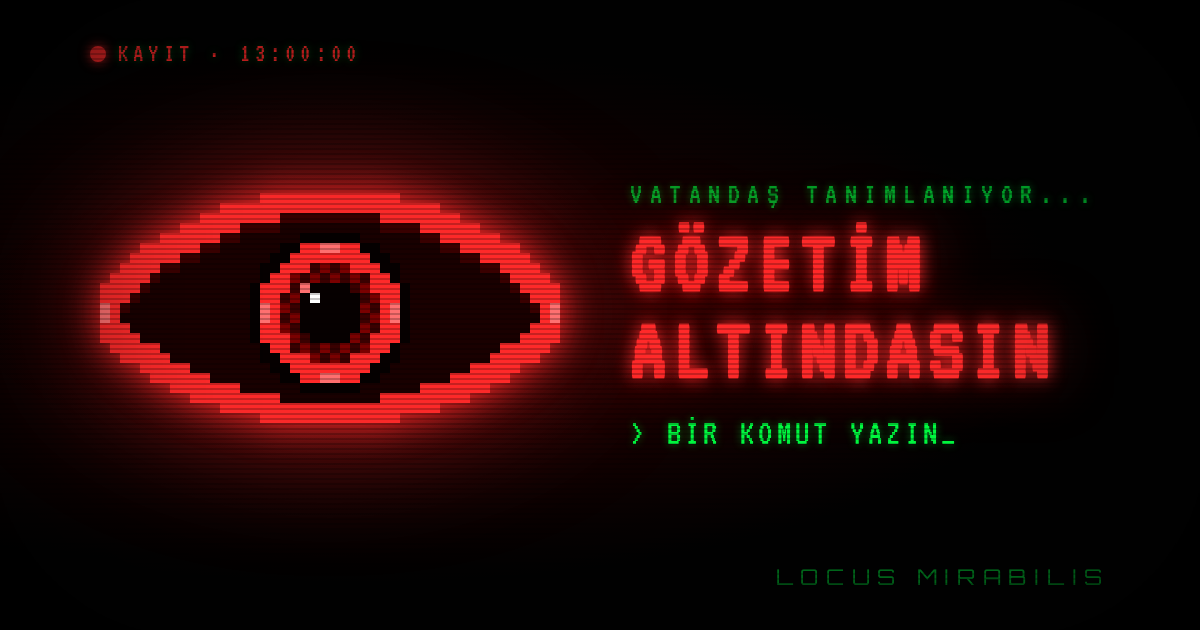
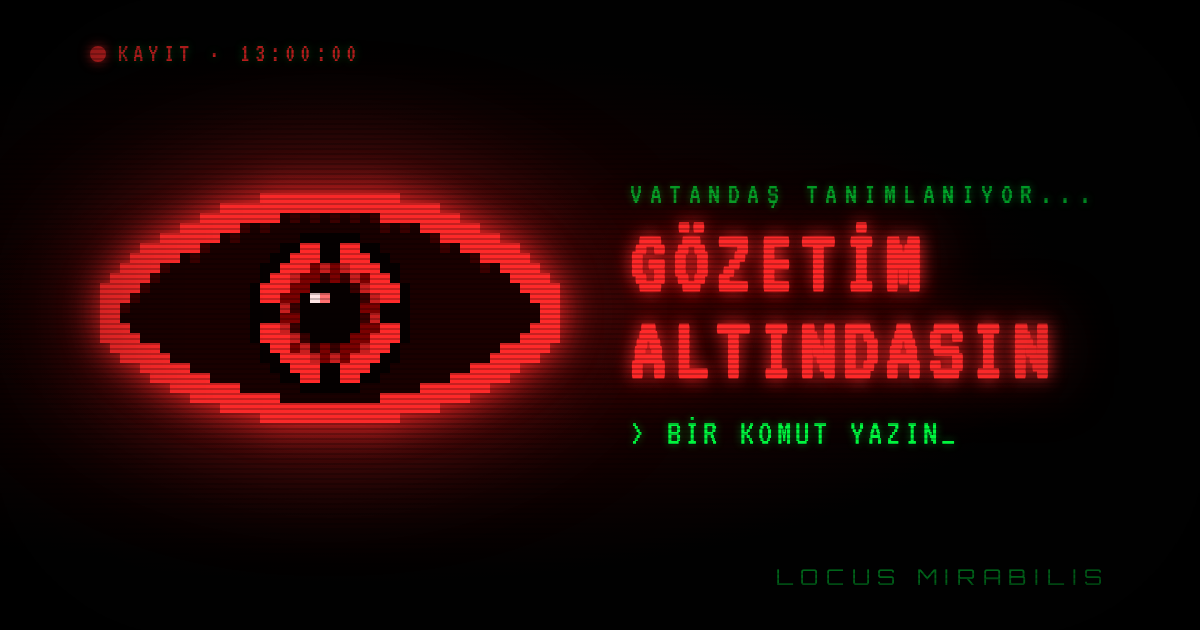
Refine the pixel eye after adversarial review
Three reviewers compared the synthesised eye with the top candidates; it
won narrowly and every concrete fix is applied:
- the suspect-mood dilation is now a second, whole-cell stepped pupil that
  fades in with steps() instead of a smoothly scaled polygon (the last
  vector tween inside the sprite); the blink drops in raster rows too
- the collar is a two-step ordered-dither ramp (mid chequer, dark chequer)
  instead of a single dark speckled band
- the pale cardinal ticks became dark notches that cut the ring into four
  arcs: mechanism, not shine; tip hot-spots removed for a clean taper
- the brow shadow is a 50% chequer instead of a flat band
- the glint is a two-cell phosphor-white → soft-red bar inside the pupil
Favicon, icons and OG image regenerated from the same sprite.

Claude-Session: https://claude.ai/code/session_01N9ZUnRadKbmvCrqos9aZ95

diff --git a/scripts/make-eye.js b/scripts/make-eye.js
@@ -10,10 +10,12 @@
  *   - assets/img/eye.svg    standalone copy for the icon / OG generator
  *   - assets/img/favicon.svg ring + pupil only, 16x16 cells
  *
- * Design (synthesised from the ten-candidate panel): asymmetric almond with a
- * two-cell outline and phosphor hot-spots at the tips, dark limbal ring, bold
- * two-cell iris ring with cardinal ticks, ordered-dither collar, stepped pupil
- * with a two-tone glint. No curves, no gradients, nothing off the grid.
+ * Design (synthesised from a ten-candidate panel and an adversarial review):
+ * asymmetric almond with a two-cell outline, a chequered brow shadow, dark
+ * limbal ring, bold two-cell iris ring cut into four arcs by dark cardinal
+ * notches, a two-step ordered-dither collar, a stepped pupil with a two-tone
+ * phosphor glint, and a whole-cell dilated pupil for suspect mood. No curves,
+ * no gradients, nothing off the grid, no smooth tweens.
  */
 'use strict';
 
@@ -33,11 +35,13 @@ const PAL = {
   shadow: '#3a0000',
   limbal: '#060000',
   ring: 'currentColor',
-  tick: '#ff7070',
-  ditherA: '#7a0000',
-  ditherB: '#3a0000',
+  notch: '#060000',
+  collarOuterA: '#c81e1e', // mid red: the collar ramps bright ring → mid chequer → dark chequer → void
+  collarOuterB: '#7a0000',
+  collarInnerA: '#7a0000',
+  collarInnerB: '#3a0000',
   pupil: '#060000',
-  glint: '#ffffff',
+  glint: '#ffe4e4',       // over-driven phosphor white, not paper white
   glintSoft: '#ff7070'
 };
 
@@ -84,42 +88,33 @@ function paint() {
   const open = almondOpening();
   const outline = new Set([...dilate(open, 2)].filter((k) => !open.has(k)));
 
-  const layers = { sclera: [], shadow: [], outline: [], tips: [], limbal: [], ring: [], tick: [], ditherA: [], ditherB: [], pupil: [], glint: [], glintSoft: [] };
+  const layers = { sclera: [], shadow: [], outline: [], limbal: [], ring: [], notch: [], collarOuterA: [], collarOuterB: [], collarInnerA: [], collarInnerB: [], pupil: [], glint: [], glintSoft: [] };
 
   for (const k of open) {
     const [c, r] = k.split(',').map(Number);
-    // one cell of shadow directly under the upper lid gives the brow weight
-    if (outline.has(key(c, r - 1))) layers.shadow.push([c, r]);
+    // a 50% chequer of shadow directly under the upper lid gives the brow weight without a flat band
+    if (outline.has(key(c, r - 1)) && (c + r) % 2 === 0) layers.shadow.push([c, r]);
     else layers.sclera.push([c, r]);
   }
   for (const k of outline) layers.outline.push(k.split(',').map(Number));
 
-  // phosphor hot-spots where the beam dwells at the almond tips
-  const outlineCols = layers.outline.map(([c]) => c);
-  const minC = Math.min(...outlineCols);
-  const maxC = Math.max(...outlineCols);
-  for (const r of [13, 14]) {
-    layers.tips.push([minC, r]);
-    layers.tips.push([maxC, r]);
-  }
-
   // iris rings by cell-centre distance from (CX, CY)
+  const chequer = (c, r) => (c + r) % 2 === 0;
   for (let c = 0; c < COLS; c++) {
     for (let r = 0; r < ROWS; r++) {
       const d = dist(c, r);
       if (d >= 40) continue;
+      const cardinal = (c === 23 || c === 24) || (r === 13 || r === 14); // the two cells straddling each axis
       if (d >= 35) layers.limbal.push([c, r]);
-      else if (d >= 25) layers.ring.push([c, r]);
-      else if (d >= 15) ((c + r) % 2 === 0 ? layers.ditherA : layers.ditherB).push([c, r]);
+      else if (d >= 25) (cardinal ? layers.notch : layers.ring).push([c, r]);        // dark notches cut the ring into four arcs
+      else if (d >= 20) (chequer(c, r) ? layers.collarOuterA : layers.collarOuterB).push([c, r]);
+      else if (d >= 15) (chequer(c, r) ? layers.collarInnerA : layers.collarInnerB).push([c, r]);
       else layers.pupil.push([c, r]);
     }
   }
-  // cardinal ticks on the bright ring (two cells each, since the centre is on a corner)
-  for (const c of [23, 24]) { layers.tick.push([c, 7]); layers.tick.push([c, 20]); }
-  for (const r of [13, 14]) { layers.tick.push([17, r]); layers.tick.push([30, r]); }
-  // two-tone glint: a white cell inside the pupil's upper-left edge, a soft cell beyond it
+  // two-tone glint bar inside the pupil's upper-left: phosphor white decaying to soft red
   layers.glint.push([22, 12]);
-  layers.glintSoft.push([21, 11]);
+  layers.glintSoft.push([23, 12]);
 
   return { layers, open };
 }
@@ -156,15 +151,18 @@ function layer(cells, fill, extra = '') {
   return `<path fill="${fill}" d="${pathFor(cells)}"${extra}/>`;
 }
 
-function octagon(cx, cy, apothem) {
-  // regular octagon: circumradius = apothem / cos(22.5deg) stays inside the resting pupil disc
-  const pts = [];
-  for (let i = 0; i < 8; i++) {
-    const a = Math.PI / 8 + (i * Math.PI) / 4;
-    const R = apothem / Math.cos(Math.PI / 8);
-    pts.push(`${(cx + R * Math.cos(a)).toFixed(2)},${(cy + R * Math.sin(a)).toFixed(2)}`);
+function dilatedPupil() {
+  // 8 cells across with one-cell corner cuts: x100–140, y50–90 on the grid
+  const cells = [];
+  for (let c = 20; c < 28; c++) {
+    for (let r = 10; r < 18; r++) {
+      const edgeC = c === 20 || c === 27;
+      const edgeR = r === 10 || r === 17;
+      if (edgeC && edgeR) continue;
+      cells.push([c, r]);
+    }
   }
-  return pts.join(' ');
+  return cells;
 }
 
 function buildEye({ inline }) {
@@ -179,16 +177,17 @@ function buildEye({ inline }) {
     layer(layers.sclera, color('sclera')),
     layer(layers.shadow, color('shadow')),
     layer(layers.outline, color('outline')),
-    layer(layers.tips, color('tick')),
     `<g clip-path="url(#${ids.clip})"><g${ids.pupil}>`,
     layer(layers.limbal, color('limbal')),
     layer(layers.ring, color('ring')),
-    layer(layers.tick, color('tick')),
-    layer(layers.ditherA, color('ditherA')),
-    layer(layers.ditherB, color('ditherB')),
+    layer(layers.notch, color('notch')),
+    layer(layers.collarOuterA, color('collarOuterA')),
+    layer(layers.collarOuterB, color('collarOuterB')),
+    layer(layers.collarInnerA, color('collarInnerA')),
+    layer(layers.collarInnerB, color('collarInnerB')),
     layer(layers.pupil, color('pupil')),
-    // the dilating core hides inside the resting pupil and grows to exactly 8 cells (40 units) at 1.45x
-    `<polygon${ids.core} fill="${color('pupil')}" points="${octagon(CX, CY, 40 / 1.45 / 2)}"/>`,
+    // suspect mood: the void dilates to a stepped 8-cell octagon, whole cells only (CSS fades it in with steps())
+    inline ? `<path${ids.core} fill="${color('pupil')}" d="${pathFor(dilatedPupil())}"/>` : '',
     layer(layers.glint, color('glint')),
     layer(layers.glintSoft, color('glintSoft')),
     '</g></g>',
@@ -202,13 +201,14 @@ function buildFavicon() {
   const S = 4;
   const cx = 32;
   const cy = 32;
-  const cells = { ring: [], ditherA: [], ditherB: [], pupil: [] };
+  const cells = { ring: [], ditherA: [], ditherB: [], ditherC: [], pupil: [] };
   for (let c = 0; c < 16; c++) {
     for (let r = 0; r < 16; r++) {
       const d = Math.hypot(c * S + S / 2 - cx, r * S + S / 2 - cy);
       if (d >= 28) continue;
       if (d >= 20) cells.ring.push([c, r]);
-      else if (d >= 12) ((c + r) % 2 === 0 ? cells.ditherA : cells.ditherB).push([c, r]);
+      else if (d >= 16) ((c + r) % 2 === 0 ? cells.ditherA : cells.ditherB).push([c, r]);
+      else if (d >= 12) ((c + r) % 2 === 0 ? cells.ditherB : cells.ditherC).push([c, r]);
       else cells.pupil.push([c, r]);
     }
   }
@@ -217,10 +217,11 @@ function buildFavicon() {
     '<svg xmlns="http://www.w3.org/2000/svg" viewBox="0 0 64 64" shape-rendering="crispEdges">',
     '<rect width="64" height="64" fill="#020202"/>',
     `<path fill="#ff2a2a" d="${p(cells.ring)}"/>`,
-    `<path fill="#7a0000" d="${p(cells.ditherA)}"/>`,
-    `<path fill="#3a0000" d="${p(cells.ditherB)}"/>`,
+    `<path fill="#c81e1e" d="${p(cells.ditherA)}"/>`,
+    `<path fill="#7a0000" d="${p(cells.ditherB)}"/>`,
+    `<path fill="#3a0000" d="${p(cells.ditherC)}"/>`,
     `<path fill="#060000" d="${p(cells.pupil)}"/>`,
-    '<path fill="#ffffff" d="M24 24h4v4h-4z"/>',
+    '<path fill="#ffe4e4" d="M24 24h4v4h-4z"/>',
     '</svg>',
     ''
   ].join('\n');

diff --git a/index.html b/index.html
@@ -69,20 +69,21 @@
                 <div class="eye-wrap">
                     <svg id="surveillance-eye" viewBox="0 0 240 140" aria-hidden="true" focusable="false" shape-rendering="crispEdges">
                         <defs><clipPath id="eye-opening"><path d="M95 20h50v5h-50zM75 25h90v5h-90zM65 30h110v5h-110zM55 35h130v5h-130zM45 40h150v5h-150zM35 45h170v5h-170zM30 50h180v5h-180zM25 55h190v5h-190zM20 60h200v5h-200zM15 65h210v5h-210zM15 70h210v5h-210zM20 75h200v5h-200zM25 80h190v5h-190zM35 85h170v5h-170zM40 90h160v5h-160zM50 95h140v5h-140zM60 100h120v5h-120zM75 105h90v5h-90zM95 110h50v5h-50z"/></clipPath></defs>
-                        <path fill="#1a0000" d="M95 25h50v5h-50zM75 30h90v5h-90zM65 35h110v5h-110zM55 40h130v5h-130zM45 45h150v5h-150zM35 50h170v5h-170zM30 55h180v5h-180zM25 60h190v5h-190zM20 65h200v5h-200zM15 70h210v5h-210zM20 75h200v5h-200zM25 80h190v5h-190zM35 85h170v5h-170zM40 90h160v5h-160zM50 95h140v5h-140zM60 100h120v5h-120zM75 105h90v5h-90zM95 110h50v5h-50z"/>
-                        <path fill="#3a0000" d="M95 20h50v5h-50zM75 25h20v5h-20zM145 25h20v5h-20zM65 30h10v5h-10zM165 30h10v5h-10zM55 35h10v5h-10zM175 35h10v5h-10zM45 40h10v5h-10zM185 40h10v5h-10zM35 45h10v5h-10zM195 45h10v5h-10zM30 50h5v5h-5zM205 50h5v5h-5zM25 55h5v5h-5zM210 55h5v5h-5zM20 60h5v5h-5zM215 60h5v5h-5zM15 65h5v5h-5zM220 65h5v5h-5z"/>
+                        <path fill="#1a0000" d="M95 20h5v5h-5zM105 20h5v5h-5zM115 20h5v5h-5zM125 20h5v5h-5zM135 20h5v5h-5zM80 25h5v5h-5zM90 25h55v5h-55zM150 25h5v5h-5zM160 25h5v5h-5zM65 30h5v5h-5zM75 30h95v5h-95zM60 35h115v5h-115zM180 35h5v5h-5zM45 40h5v5h-5zM55 40h135v5h-135zM40 45h155v5h-155zM200 45h5v5h-5zM35 50h175v5h-175zM30 55h185v5h-185zM25 60h195v5h-195zM20 65h205v5h-205zM15 70h210v5h-210zM20 75h200v5h-200zM25 80h190v5h-190zM35 85h170v5h-170zM40 90h160v5h-160zM50 95h140v5h-140zM60 100h120v5h-120zM75 105h90v5h-90zM95 110h50v5h-50z"/>
+                        <path fill="#3a0000" d="M100 20h5v5h-5zM110 20h5v5h-5zM120 20h5v5h-5zM130 20h5v5h-5zM140 20h5v5h-5zM75 25h5v5h-5zM85 25h5v5h-5zM145 25h5v5h-5zM155 25h5v5h-5zM70 30h5v5h-5zM170 30h5v5h-5zM55 35h5v5h-5zM175 35h5v5h-5zM50 40h5v5h-5zM190 40h5v5h-5zM35 45h5v5h-5zM195 45h5v5h-5zM30 50h5v5h-5zM25 55h5v5h-5zM20 60h5v5h-5zM15 65h5v5h-5z"/>
                         <path fill="currentColor" d="M85 10h70v5h-70zM65 15h110v5h-110zM55 20h40v5h-40zM145 20h40v5h-40zM45 25h30v5h-30zM165 25h30v5h-30zM35 30h30v5h-30zM175 30h30v5h-30zM25 35h30v5h-30zM185 35h30v5h-30zM20 40h25v5h-25zM195 40h25v5h-25zM15 45h20v5h-20zM205 45h20v5h-20zM10 50h20v5h-20zM210 50h20v5h-20zM5 55h20v5h-20zM215 55h20v5h-20zM5 60h15v5h-15zM220 60h15v5h-15zM5 65h10v5h-10zM225 65h10v5h-10zM5 70h10v5h-10zM225 70h10v5h-10zM5 75h15v5h-15zM220 75h15v5h-15zM5 80h20v5h-20zM215 80h20v5h-20zM10 85h25v5h-25zM205 85h25v5h-25zM15 90h25v5h-25zM200 90h25v5h-25zM25 95h25v5h-25zM190 95h25v5h-25zM30 100h30v5h-30zM180 100h30v5h-30zM40 105h35v5h-35zM165 105h35v5h-35zM50 110h45v5h-45zM145 110h45v5h-45zM65 115h110v5h-110zM85 120h70v5h-70z"/>
-                        <path fill="#ff7070" d="M5 65h5v5h-5zM230 65h5v5h-5zM5 70h5v5h-5zM230 70h5v5h-5z"/>
                         <g clip-path="url(#eye-opening)"><g id="pupil">
                         <path fill="#060000" d="M105 30h30v5h-30zM95 35h10v5h-10zM135 35h10v5h-10zM90 40h10v5h-10zM140 40h10v5h-10zM85 45h10v5h-10zM145 45h10v5h-10zM85 50h5v5h-5zM150 50h5v5h-5zM80 55h5v5h-5zM155 55h5v5h-5zM80 60h5v5h-5zM155 60h5v5h-5zM80 65h5v5h-5zM155 65h5v5h-5zM80 70h5v5h-5zM155 70h5v5h-5zM80 75h5v5h-5zM155 75h5v5h-5zM80 80h5v5h-5zM155 80h5v5h-5zM85 85h5v5h-5zM150 85h5v5h-5zM85 90h10v5h-10zM145 90h10v5h-10zM90 95h10v5h-10zM140 95h10v5h-10zM95 100h10v5h-10zM135 100h10v5h-10zM105 105h30v5h-30z"/>
-                        <path fill="currentColor" d="M105 35h30v5h-30zM100 40h40v5h-40zM95 45h15v5h-15zM130 45h15v5h-15zM90 50h10v5h-10zM140 50h10v5h-10zM85 55h15v5h-15zM140 55h15v5h-15zM85 60h10v5h-10zM145 60h10v5h-10zM85 65h10v5h-10zM145 65h10v5h-10zM85 70h10v5h-10zM145 70h10v5h-10zM85 75h10v5h-10zM145 75h10v5h-10zM85 80h15v5h-15zM140 80h15v5h-15zM90 85h10v5h-10zM140 85h10v5h-10zM95 90h15v5h-15zM130 90h15v5h-15zM100 95h40v5h-40zM105 100h30v5h-30z"/>
-                        <path fill="#ff7070" d="M115 35h10v5h-10zM85 65h5v5h-5zM150 65h5v5h-5zM85 70h5v5h-5zM150 70h5v5h-5zM115 100h10v5h-10z"/>
-                        <path fill="#7a0000" d="M115 45h5v5h-5zM125 45h5v5h-5zM100 50h5v5h-5zM110 50h5v5h-5zM120 50h5v5h-5zM130 50h5v5h-5zM105 55h5v5h-5zM135 55h5v5h-5zM100 60h5v5h-5zM140 60h5v5h-5zM95 65h5v5h-5zM135 65h5v5h-5zM100 70h5v5h-5zM140 70h5v5h-5zM95 75h5v5h-5zM135 75h5v5h-5zM100 80h5v5h-5zM130 80h5v5h-5zM105 85h5v5h-5zM115 85h5v5h-5zM125 85h5v5h-5zM135 85h5v5h-5zM110 90h5v5h-5zM120 90h5v5h-5z"/>
-                        <path fill="#3a0000" d="M110 45h5v5h-5zM120 45h5v5h-5zM105 50h5v5h-5zM115 50h5v5h-5zM125 50h5v5h-5zM135 50h5v5h-5zM100 55h5v5h-5zM130 55h5v5h-5zM95 60h5v5h-5zM135 60h5v5h-5zM100 65h5v5h-5zM140 65h5v5h-5zM95 70h5v5h-5zM135 70h5v5h-5zM100 75h5v5h-5zM140 75h5v5h-5zM105 80h5v5h-5zM135 80h5v5h-5zM100 85h5v5h-5zM110 85h5v5h-5zM120 85h5v5h-5zM130 85h5v5h-5zM115 90h5v5h-5zM125 90h5v5h-5z"/>
+                        <path fill="currentColor" d="M105 35h10v5h-10zM125 35h10v5h-10zM100 40h15v5h-15zM125 40h15v5h-15zM95 45h15v5h-15zM130 45h15v5h-15zM90 50h10v5h-10zM140 50h10v5h-10zM85 55h15v5h-15zM140 55h15v5h-15zM85 60h10v5h-10zM145 60h10v5h-10zM85 75h10v5h-10zM145 75h10v5h-10zM85 80h15v5h-15zM140 80h15v5h-15zM90 85h10v5h-10zM140 85h10v5h-10zM95 90h15v5h-15zM130 90h15v5h-15zM100 95h15v5h-15zM125 95h15v5h-15zM105 100h10v5h-10zM125 100h10v5h-10z"/>
+                        <path fill="#060000" d="M115 35h10v5h-10zM115 40h10v5h-10zM85 65h10v5h-10zM145 65h10v5h-10zM85 70h10v5h-10zM145 70h10v5h-10zM115 95h10v5h-10zM115 100h10v5h-10z"/>
+                        <path fill="#c81e1e" d="M115 45h5v5h-5zM125 45h5v5h-5zM100 50h5v5h-5zM130 50h5v5h-5zM135 55h5v5h-5zM140 60h5v5h-5zM95 65h5v5h-5zM140 70h5v5h-5zM95 75h5v5h-5zM100 80h5v5h-5zM105 85h5v5h-5zM135 85h5v5h-5zM110 90h5v5h-5zM120 90h5v5h-5z"/>
+                        <path fill="#7a0000" d="M110 45h5v5h-5zM120 45h5v5h-5zM105 50h5v5h-5zM135 50h5v5h-5zM100 55h5v5h-5zM95 60h5v5h-5zM140 65h5v5h-5zM95 70h5v5h-5zM140 75h5v5h-5zM135 80h5v5h-5zM100 85h5v5h-5zM130 85h5v5h-5zM115 90h5v5h-5zM125 90h5v5h-5z"/>
+                        <path fill="#7a0000" d="M110 50h5v5h-5zM120 50h5v5h-5zM105 55h5v5h-5zM100 60h5v5h-5zM135 65h5v5h-5zM100 70h5v5h-5zM135 75h5v5h-5zM130 80h5v5h-5zM115 85h5v5h-5zM125 85h5v5h-5z"/>
+                        <path fill="#3a0000" d="M115 50h5v5h-5zM125 50h5v5h-5zM130 55h5v5h-5zM135 60h5v5h-5zM100 65h5v5h-5zM135 70h5v5h-5zM100 75h5v5h-5zM105 80h5v5h-5zM110 85h5v5h-5zM120 85h5v5h-5z"/>
                         <path fill="#060000" d="M110 55h20v5h-20zM105 60h30v5h-30zM105 65h30v5h-30zM105 70h30v5h-30zM105 75h30v5h-30zM110 80h20v5h-20z"/>
-                        <polygon id="pupil-core" fill="#060000" points="133.79,75.71 125.71,83.79 114.29,83.79 106.21,75.71 106.21,64.29 114.29,56.21 125.71,56.21 133.79,64.29"/>
-                        <path fill="#ffffff" d="M110 60h5v5h-5z"/>
-                        <path fill="#ff7070" d="M105 55h5v5h-5z"/>
+                        <path id="pupil-core" fill="#060000" d="M105 50h30v5h-30zM100 55h40v5h-40zM100 60h40v5h-40zM100 65h40v5h-40zM100 70h40v5h-40zM100 75h40v5h-40zM100 80h40v5h-40zM105 85h30v5h-30z"/>
+                        <path fill="#ffe4e4" d="M110 60h5v5h-5z"/>
+                        <path fill="#ff7070" d="M115 60h5v5h-5z"/>
                         </g></g>
                         </svg>
                 </div>

diff --git a/assets/css/styles.css b/assets/css/styles.css
@@ -310,15 +310,13 @@ a { color: inherit; }
 #surveillance-eye.blink,
 #surveillance-eye.closed { transform: scaleY(0.04); }
 #surveillance-eye.closed { transition-duration: 0.35s; }
+#surveillance-eye { transition-timing-function: ease, steps(2, end); } /* the lid drops in raster rows, not a smooth squash */
 /* The gaze jumps whole cells (no sub-pixel sliding): a sprite, not a vector. */
 #pupil { transition: transform 0.14s steps(1, end); }
 #pupil.wander { transition-duration: 0.6s; }
 #pupil.stare { transition-duration: 0.05s; }
-#pupil-core {
-  transform-box: fill-box;
-  transform-origin: center;
-  transition: transform 0.4s ease;
-}
+/* Suspect mood: the void dilates as a discrete raster swap (the dilated pupil is a second, whole-cell shape). */
+#pupil-core { opacity: 0; transition: opacity 0.3s steps(2, end); }
 body[data-mood='suspect'] {
   --eye-color: #ff1a1a;
   --eye-glow-a: 16px;
@@ -331,7 +329,7 @@ body[data-mood='loyal'] {
   --eye-glow-b: 18px;
   --eye-pulse: 8s;
 }
-body[data-mood='suspect'] #pupil-core { transform: scale(1.45); }
+body[data-mood='suspect'] #pupil-core { opacity: 1; }
 
 /* Prompt -------------------------------------------------------------- */
 .subtitle {
